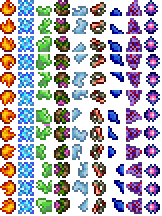
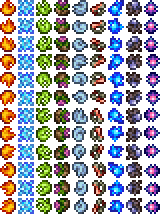
fixed top placed gems not being random

Changed region(s): [[0.6481, 0.0, 0.8951, 1.0], [0.216, 0.0, 0.3395, 1.0], [0.4321, 0.0, 0.5556, 1.0]]

diff --git a/Items/Weapons/Magic/Hardmode/Ancient.cs b/Items/Weapons/Magic/Hardmode/Ancient.cs
@@ -16,7 +16,6 @@ class Ancient : ModItem
         Item.DamageType = DamageClass.Magic;
         Item.damage = 46;
         Item.autoReuse = true;
-        Item.useTurn = true;
         Item.shootSpeed = 10f;
         Item.crit += 2;
         Item.mana = 40;
@@ -31,6 +30,10 @@ class Ancient : ModItem
         Item.value = Item.sellPrice(0, 25, 0, 0);
         Item.useAnimation = 25;
         Item.height = dims.Height;
+    }
+    public override Vector2? HoldoutOffset()
+    {
+        return new Vector2(5, 0);
     }
     public override bool Shoot(Player player, EntitySource_ItemUse_WithAmmo source, Vector2 position, Vector2 velocity, int type, int damage, float knockback)
     {

diff --git a/Tiles/PlacedGems.cs b/Tiles/PlacedGems.cs
@@ -116,7 +116,7 @@ public class PlacedGems : ModTile
         var variation = WorldGen.genRand.Next(3) * 18;
         if (topType >= 0 && Main.tileSolid[topType] && !Main.tileSolidTop[topType])
         {
-            if (tile.TileFrameY < 0 || tile.TileFrameY > 36)
+            if (tile.TileFrameY > 0 || tile.TileFrameY < 36)
                 tile.TileFrameY = (short)variation;
         }
         else if (leftType >= 0 && Main.tileSolid[leftType] && !Main.tileSolidTop[leftType])

diff --git a/Tiles/Shards.cs b/Tiles/Shards.cs
@@ -128,7 +128,7 @@ public class Shards : ModTile
         var variation = WorldGen.genRand.Next(3) * 18;
         if (topType >= 0 && Main.tileSolid[topType] && !Main.tileSolidTop[topType])
         {
-            if (tile.TileFrameY < 0 || tile.TileFrameY > 36)
+            if (tile.TileFrameY > 0 || tile.TileFrameY < 36)
                 tile.TileFrameY = (short)variation;
         }
         else if (leftType >= 0 && Main.tileSolid[leftType] && !Main.tileSolidTop[leftType])
